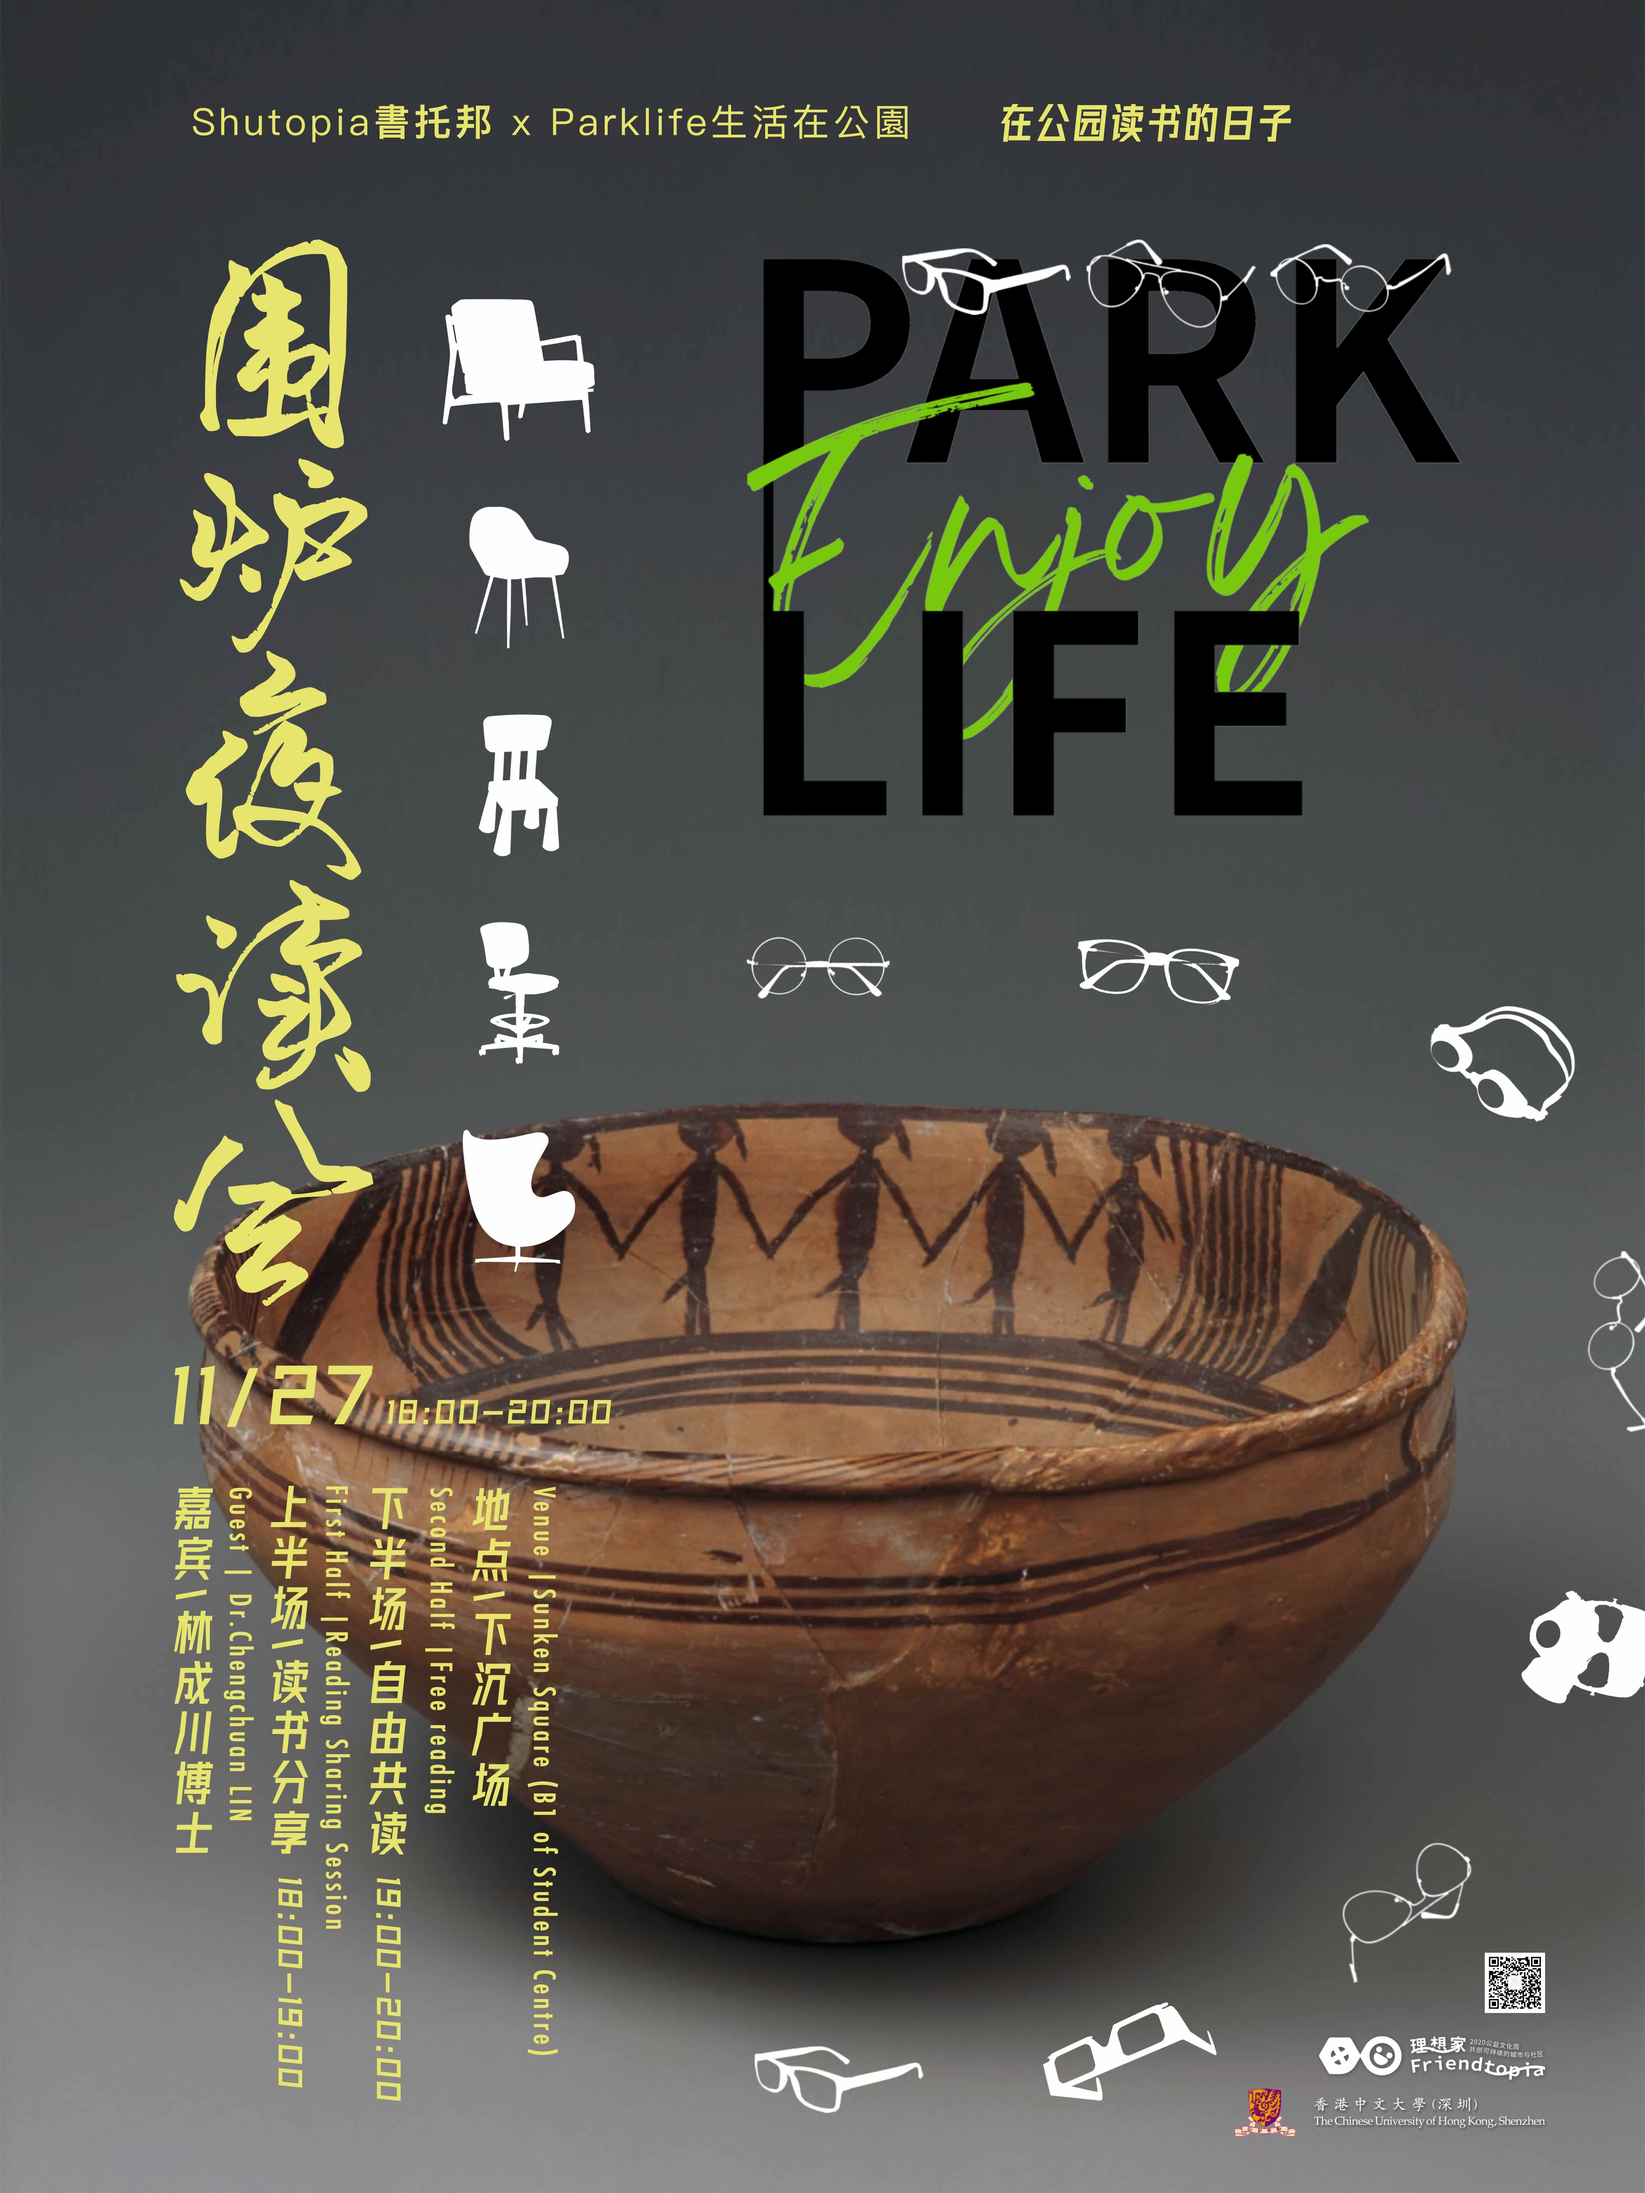
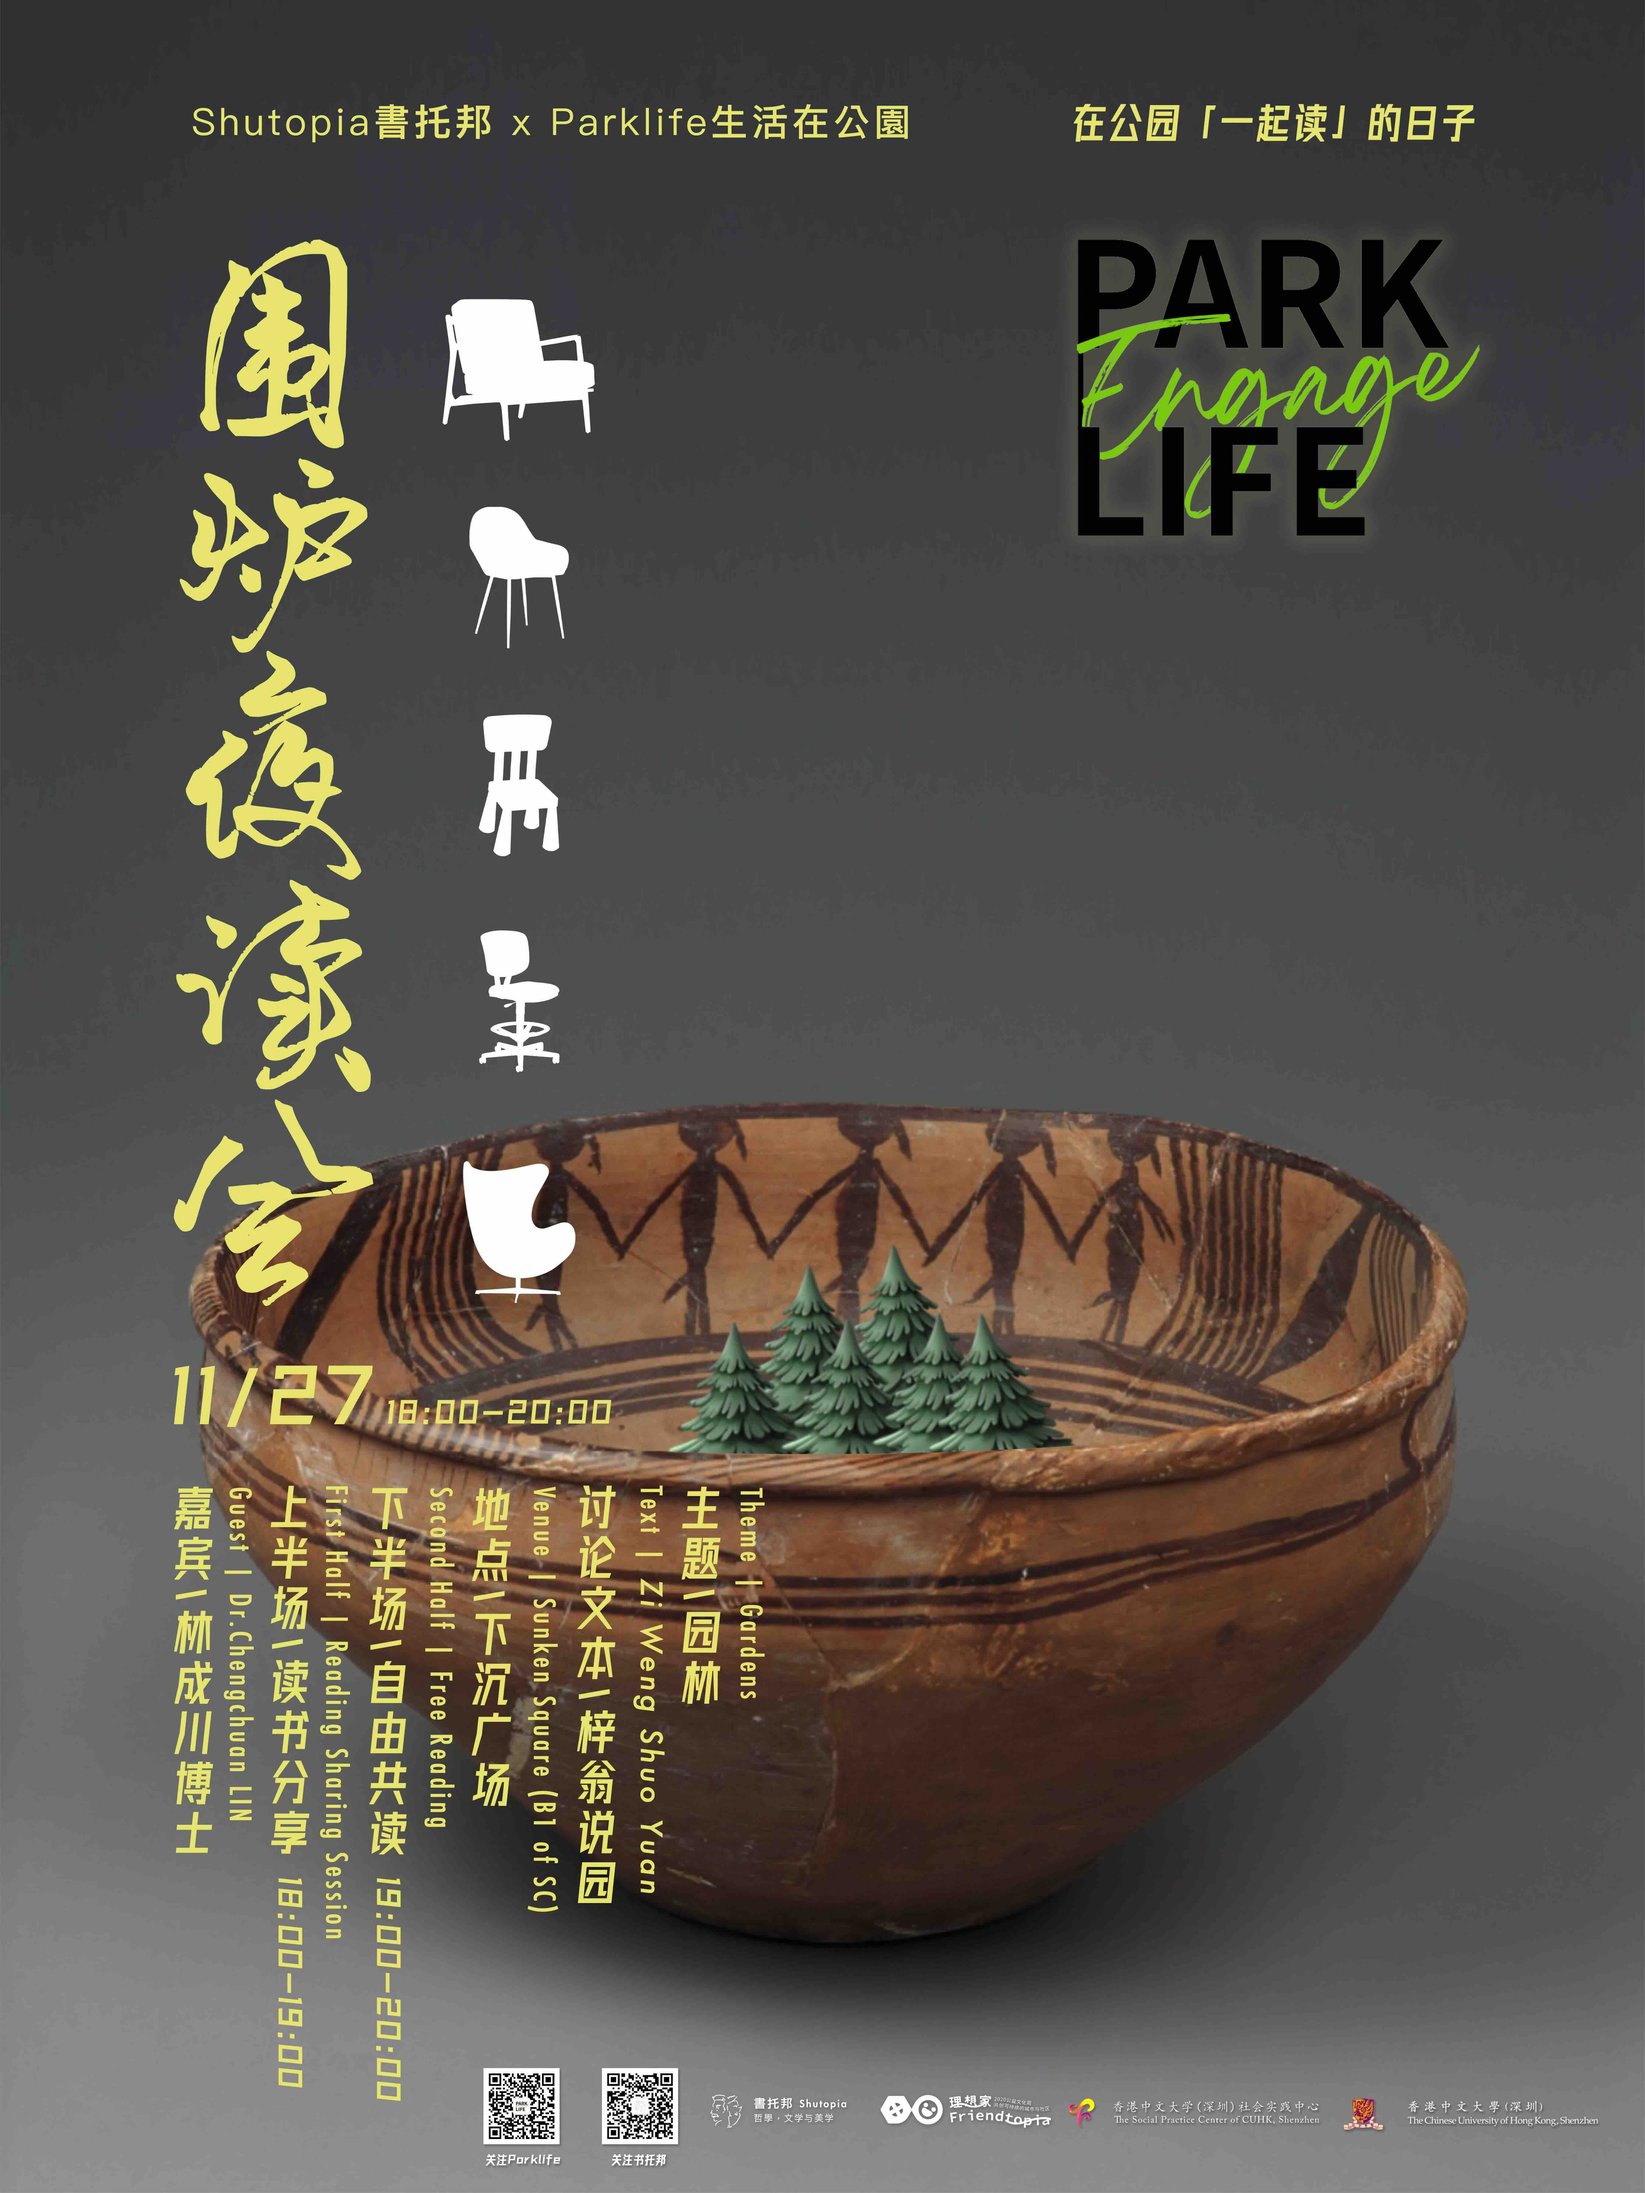
update more design

diff --git a/_pages/design.md b/_pages/design.md
@@ -10,6 +10,47 @@ nav_order: 4
 
 <figure>
   <img width="60%" max-width="600px" src="/assets/design/fcnd-2.png"/>
-  <figcaption>第二届快速眼动诗歌奖获奖证书 with 龙虾长者 & 槲槲</figcaption>
+  <figcaption>第2届快速眼动诗歌奖获奖证书 with 龙虾长者 & 槲槲 (2020)</figcaption>
+</figure>
+
+<figure>
+  <img width="60%" max-width="600px" src="/assets/design/fcnd-4.jpg"/>
+  <figcaption>第4届快速眼动诗歌奖获奖证书 with 痰盂林 (2021)</figcaption>
+</figure>
+
+<figure>
+  <img width="60%" max-width="600px" src="/assets/design/fcnd-1.jpg"/>
+  <figcaption>第1届快速眼动诗歌奖获奖证书 with 龙虾长者 (2020)</figcaption>
+</figure>
+
+<figure>
+  <img width="60%" max-width="600px" src="/assets/design/xj.jpeg"/>
+  <figcaption>课程作业 (2020)</figcaption>
+</figure>
+
+<figure>
+  <img width="60%" max-width="600px" src="/assets/design/board-3.jpeg"/>
+  <figcaption>CUHKSZ社团文化节展板3 (2020)</figcaption>
+</figure>
+
+<figure>
+  <img width="60%" max-width="600px" src="/assets/design/board-2.jpeg"/>
+  <figcaption>CUHKSZ社团文化节展板2 (2020)</figcaption>
+</figure>
+
+<figure>
+  <img width="60%" max-width="600px" src="/assets/design/dylan-2020.jpeg"/>
+  <figcaption>涤纶诗社海报 with 龙虾长者 (2020)</figcaption>
+</figure>
+
+<figure>
+  <img width="60%" max-width="600px" src="/assets/design/dylan-2020.jpeg"/>
+  <figcaption>涤纶诗社海报 with 龙虾长者 (2020)</figcaption>
+</figure>
+
+
+<figure>
+  <img width="60%" max-width="600px" src="/assets/design/shutopia-dsh.jpg"/>
+  <figcaption>Shutopia X Parklife读书会海报 (2020)</figcaption>
 </figure>
 
